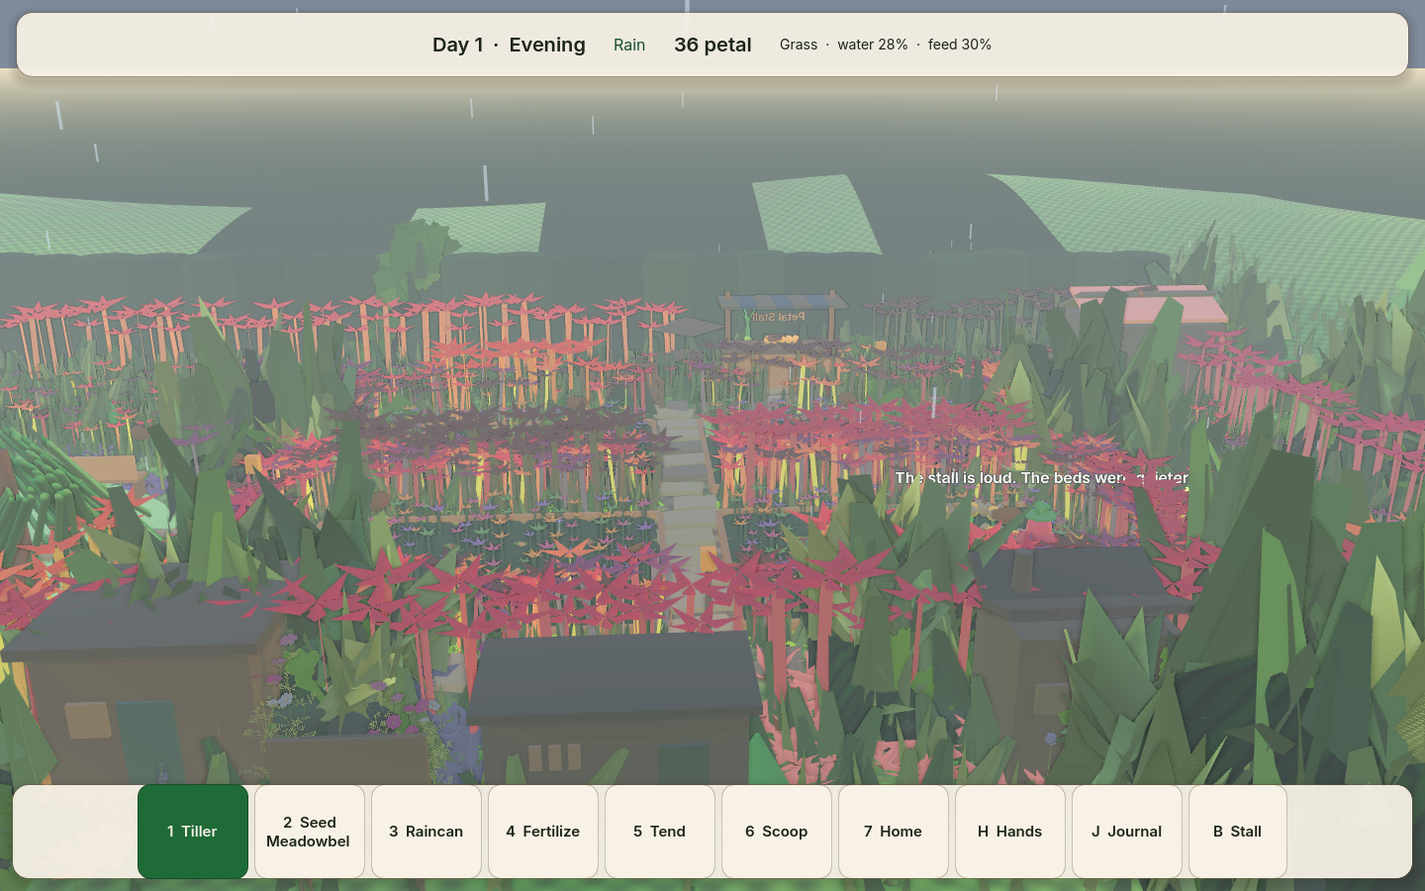
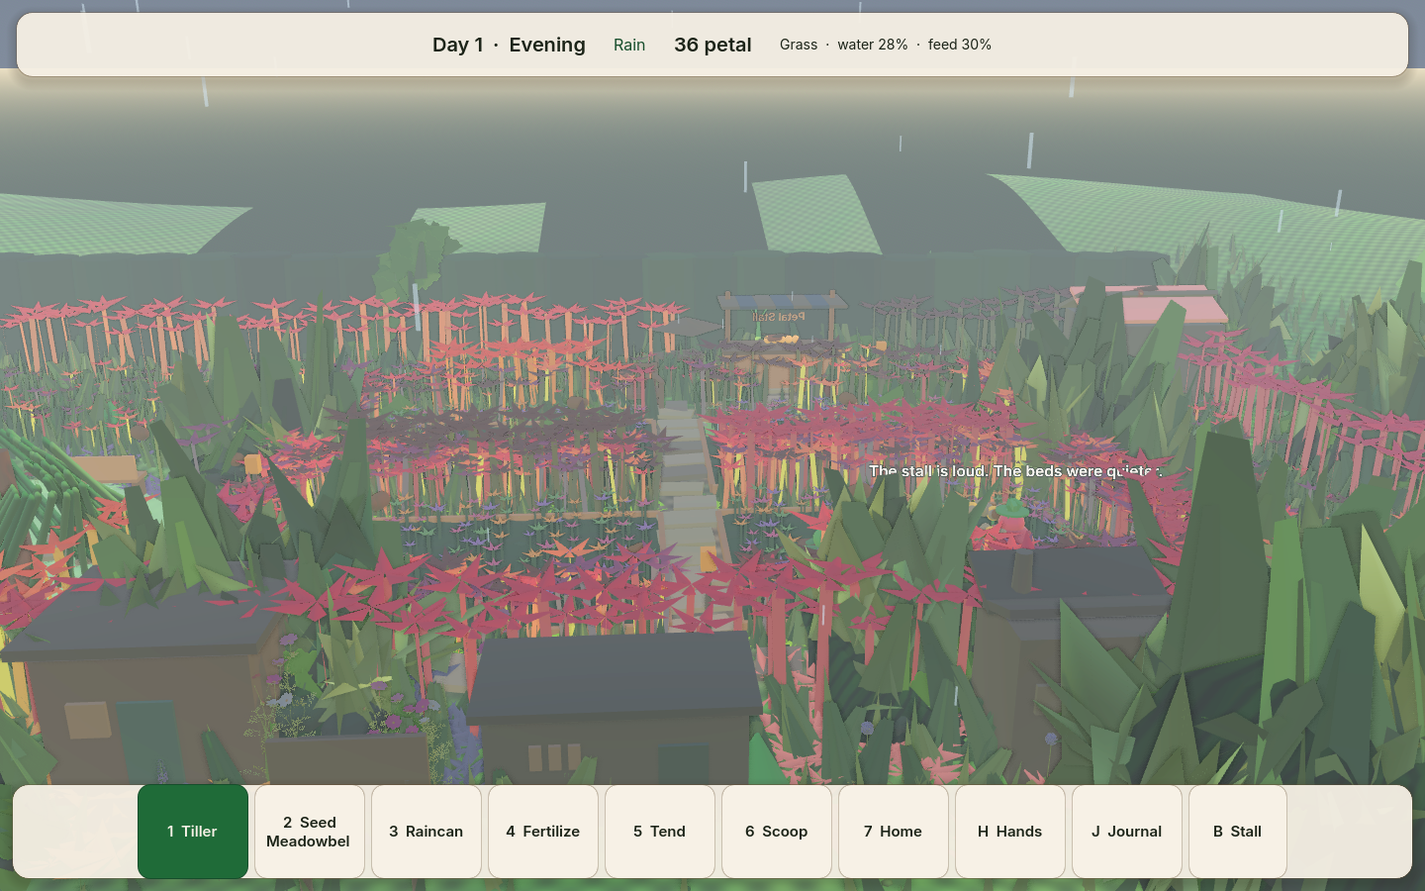
Record the joined lids on the empty beds.
Neighboring empty cells share one dark lid. The upper band is 1.61% light-green and the hill mean stays (212.1, 223.8, 146.5).

diff --git a/docs/PETALWILD_MASTER_STATE.md b/docs/PETALWILD_MASTER_STATE.md
@@ -31,14 +31,14 @@ This machine has no Vulkan surface. Godot falls back to OpenGL 3 / llvmpipe. Aud
 - Large text resizes the garden HUD without leaving the scene.
 - Sim LOD counters. Trust levels named 0–5. Only 0 and 1 can happen, and both stay in the game.
 - Off-screen jellies hide. A resident walks to the nearest placed home kit. A visitor keeps the flower. Back in frame, the body shows again.
-- By day Lumen keeps the stall, Bram walks the plots, and Nessa watches the gate. After dusk they walk home. The directory says which. Ask Bram and he walks the driest tilled bed and waters it. The potting shed is open. Its demand is 1 while he is here. The hedge tea house stands on the south lawn. Its demand is 1 while Nessa is here, and her day round stops at the porch. The research hut stands on the south lawn, west of the tea house. She walks there to file parish notes, nothing leaves the garden, and its demand is 1 once those notes are filed. The media foundry stands between them. After the notes, she can leave a three-episode draft there. Keeping it spends nothing and sends nothing, and foundry demand is 1 once the draft is in the book. The town hall is a board by the south gate. It posts the peach tray and that draft, and its demand is how many are posted. The town beyond the hedge is not simulated. When a creature arrives and Nessa is here, she walks to them and writes the name in the parish book. The journal hides a species name until that creature is sighted. A species that has already visited comes back as a repeat, and the journal says they are back again. Scooping the bank widens the pond, and the new shore sits on the ground. Bulrush wades in once that water and three mature reeds are there. Once Bulrush is a visitor and the beds are wet, Reedic follows. Fertility is the tilled beds, so feeding them counts. Two mature brambles bring Berrypatch, and a third plus those fed beds bring Grapling. A resident Bellhelp brings Cirlark. Dusknip follows a visiting Bellhelp and, once it settles, leaves night-loam, which unwraps the nightlantern seed. A ripe peach and a nightlantern in the evening rain bring Pegapear. Night-loam, two mosspears, and those fed beds bring Gushorn. A planted meadowbell is three bells on a leaf pad, and every crop sits in a ring of eight leaves. An empty untilled bed carries nine dark leaf discs and eight short flowers. Tilling or planting that bed clears them.
+- By day Lumen keeps the stall, Bram walks the plots, and Nessa watches the gate. After dusk they walk home. The directory says which. Ask Bram and he walks the driest tilled bed and waters it. The potting shed is open. Its demand is 1 while he is here. The hedge tea house stands on the south lawn. Its demand is 1 while Nessa is here, and her day round stops at the porch. The research hut stands on the south lawn, west of the tea house. She walks there to file parish notes, nothing leaves the garden, and its demand is 1 once those notes are filed. The media foundry stands between them. After the notes, she can leave a three-episode draft there. Keeping it spends nothing and sends nothing, and foundry demand is 1 once the draft is in the book. The town hall is a board by the south gate. It posts the peach tray and that draft, and its demand is how many are posted. The town beyond the hedge is not simulated. When a creature arrives and Nessa is here, she walks to them and writes the name in the parish book. The journal hides a species name until that creature is sighted. A species that has already visited comes back as a repeat, and the journal says they are back again. Scooping the bank widens the pond, and the new shore sits on the ground. Bulrush wades in once that water and three mature reeds are there. Once Bulrush is a visitor and the beds are wet, Reedic follows. Fertility is the tilled beds, so feeding them counts. Two mature brambles bring Berrypatch, and a third plus those fed beds bring Grapling. A resident Bellhelp brings Cirlark. Dusknip follows a visiting Bellhelp and, once it settles, leaves night-loam, which unwraps the nightlantern seed. A ripe peach and a nightlantern in the evening rain bring Pegapear. Night-loam, two mosspears, and those fed beds bring Gushorn. A planted meadowbell is three bells on a leaf pad, and every crop sits in a ring of eight leaves. An empty untilled bed carries nine dark leaf discs and eight short flowers, and neighboring empty cells share one lid. Tilling or planting that bed clears them and opens the seam again.
 
 ## Broken or not built
 
 - The garden does not yet look like the concept plates. See the gap list below.
 - Bellhelp’s five sphere lobes are gone. Five narrow petals run from the tips down to a small pad, with a dark five-petal well, a gold seed, a wider flared whorl, a lower rim, five gap tips past the lobes, a darker band, and a wide short rank inside the tips. The wide skirt of spheres is gone.
 - Lumen’s stalk is one fluted taper, cream at the base and green at the crown. The raised hand holds a seed tray. Each hand is a palm with three fingers and a thumb.
-- Crest leaf cards are 0.4 scale, and the far hedge keeps one 2.5 m tuft in four. A dark shrub row stands just behind that wall, taller at the east end. Light-green in the upper opening band fell from 53% to 24%, and in the lower band from 36% to 13%. The hill did not move. The stall still shows through the middle. The bright blue in that opening was the awning cloth. That stripe is darker now, about (171, 171, 173), and the sky-blue detector on the overview is 0. The shrub row behind the wall was the pale green in the upper band. That check now covers 1.2%, down from 3.5%. The crest leaf cards and the far trees were the side-opening pale pixels. The north backdrop trees are shorter. Paths are dark dirt with darker flagstones. Blooms are rose. StandardMaterial specular is off. The bench and planter are darkened, bright plant-atlas texels are capped, and the lantern glass is amber. The pink disk by the south-west rail, the untilled grass-plot tops, the meadowbell petals, the mauve bed, the resident hands, the light flagstones, the path dirt, and the loose stones are darkened. Overview pixels at pure white are 0. Empty untilled beds carry nine dark leaf discs and eight short flowers, and the plots still meet as separate rectangles. On this shot the upper-band check is 1.60% (1197 pixels) and the hill mean is (212.1, 223.8, 146.5). Eight bees drift over the beds. Four birds cross the garden by day and perch at dusk and in the rain.
+- Crest leaf cards are 0.4 scale, and the far hedge keeps one 2.5 m tuft in four. A dark shrub row stands just behind that wall, taller at the east end. Light-green in the upper opening band fell from 53% to 24%, and in the lower band from 36% to 13%. The hill did not move. The stall still shows through the middle. The bright blue in that opening was the awning cloth. That stripe is darker now, about (171, 171, 173), and the sky-blue detector on the overview is 0. The shrub row behind the wall was the pale green in the upper band. That check now covers 1.2%, down from 3.5%. The crest leaf cards and the far trees were the side-opening pale pixels. The north backdrop trees are shorter. Paths are dark dirt with darker flagstones. Blooms are rose. StandardMaterial specular is off. The bench and planter are darkened, bright plant-atlas texels are capped, and the lantern glass is amber. The pink disk by the south-west rail, the untilled grass-plot tops, the meadowbell petals, the mauve bed, the resident hands, the light flagstones, the path dirt, and the loose stones are darkened. Overview pixels at pure white are 0. Neighboring empty cells share an overlapping dark lid. The four plots still stand apart along the paths. On this shot the upper-band check is 1.61% (1208 pixels) and the hill mean is (212.1, 223.8, 146.5). Eight bees drift over the beds. Four birds cross the garden by day and perch at dusk and in the rain.
 - City, venues, and the agent civilisation are a single parish record (`data/district.json`, Hedge Hollow, phase A).
 - On-screen jellies stay at district fidelity or nearer. The directory shows each resident's home and job. The parish page lists venues. Petal Stall, the potting shed, the hedge tea house, the research hut, the media foundry, and the town hall board are open. Grove Park is not built, and demand for it is not simulated. Petal Stall demand is the people present plus creature residents.
 - Trust cannot research, draft, or act outside the process.
@@ -64,14 +64,14 @@ Spent: 0. Remaining on the connected account: **367.46** (pro). Catalog check re
 
 Compared `docs/screenshots/wave1_overview.png`, `wave1_jelly.png`, and `wave1_lumen.png` with `docs/reference/petalwild_target_garden_01.png` and `petalwild_target_garden_02.png`.
 
-The north backdrop trees are shorter than the hedge. Crest leaf cards are 0.4 scale, and the far hedge keeps one 2.5 m tuft in four. A dark shrub row stands just behind that wall, taller at the east end. Light-green pixels fell from 53% to 24% in the upper opening band (screen y 265–320) and from 36% to 13% in the lower band (y 290–360). East-lip luminance (y 252–272) fell from 200 to 162. The hill (y 200–245) did not change. Bellhelp’s close-up is on open lawn: five narrow lobes, a dark five-petal well, a gold seed, a wider flared whorl, a lower rim, five gap tips past the lobes, a darker band, and a wide short rank inside the tips. The bench and planter use a dark multiply, bright plant-atlas texels are capped, and the lantern glass is amber. The pink disk by the south-west rail, the untilled grass-plot tops, the meadowbell petals, the mauve bed, the resident hands, the light flagstones, the path dirt, and the loose stones are darkened. Pure white on this overview is 0. The stall awning’s bright blue was cloth, now about (171, 171, 173), and the sky-blue detector is 0. The shrub row behind the wall no longer reads as pale green; that upper-band check is 1.2%. On the previous shot that check was 1.17% and the hill mean was (212.9, 224.4, 147.6). With the hedge tea house in the lower left, that shot was 1.30%. With the research hut in the lower middle, that shot was 1.17% (874 pixels). With the media foundry in the lower middle, that shot was 1.15% (862 pixels). With the town hall board in the south gate, that shot was 1.29% (968 pixels) and the hill mean was (212.0, 223.6, 146.4). On that shot the check was 1.54% (1155 pixels) and the hill mean was (212.0, 223.7, 146.5). Empty untilled beds now carry nine dark leaf discs and eight short flowers, and a tilled or planted bed clears them. On this shot the check is 1.60% (1197 pixels) and the hill mean is (212.1, 223.8, 146.5). The added light-green is the west edge of the hill under the swaying leaves. A planted meadowbell is three bells on a leaf pad, and every crop sits in a ring of eight leaves. Eight bees drift over the beds. Four birds cross the garden by day and perch at dusk and in the rain. Paths are flagstones on dark dirt. Lumen’s stalk is one fluted taper, and the raised hand holds the seed tray. `PETAL_SMOKE_OK`, `PETAL_RULES_OK`, and `PETAL_CAPTURE_OK` passed on this tree. Shots are the six `wave1_*.png` files.
+The north backdrop trees are shorter than the hedge. Crest leaf cards are 0.4 scale, and the far hedge keeps one 2.5 m tuft in four. A dark shrub row stands just behind that wall, taller at the east end. Light-green pixels fell from 53% to 24% in the upper opening band (screen y 265–320) and from 36% to 13% in the lower band (y 290–360). East-lip luminance (y 252–272) fell from 200 to 162. The hill (y 200–245) did not change. Bellhelp’s close-up is on open lawn: five narrow lobes, a dark five-petal well, a gold seed, a wider flared whorl, a lower rim, five gap tips past the lobes, a darker band, and a wide short rank inside the tips. The bench and planter use a dark multiply, bright plant-atlas texels are capped, and the lantern glass is amber. The pink disk by the south-west rail, the untilled grass-plot tops, the meadowbell petals, the mauve bed, the resident hands, the light flagstones, the path dirt, and the loose stones are darkened. Pure white on this overview is 0. The stall awning’s bright blue was cloth, now about (171, 171, 173), and the sky-blue detector is 0. The shrub row behind the wall no longer reads as pale green; that upper-band check is 1.2%. On the previous shot that check was 1.17% and the hill mean was (212.9, 224.4, 147.6). With the hedge tea house in the lower left, that shot was 1.30%. With the research hut in the lower middle, that shot was 1.17% (874 pixels). With the media foundry in the lower middle, that shot was 1.15% (862 pixels). With the town hall board in the south gate, that shot was 1.29% (968 pixels) and the hill mean was (212.0, 223.6, 146.4). On that shot the check was 1.54% (1155 pixels) and the hill mean was (212.0, 223.7, 146.5). Empty untilled beds now carry nine dark leaf discs and eight short flowers, and a tilled or planted bed clears them. On the leaf-cover shot the check was 1.60% (1197 pixels) and the hill mean was (212.1, 223.8, 146.5). Neighboring empty cells now share an overlapping dark lid, so the brown seam inside a plot closes. On this shot the check is 1.61% (1208 pixels) and the hill mean is (212.1, 223.8, 146.5). The extra light-green is the west edge of the hill under the swaying leaves. A planted meadowbell is three bells on a leaf pad, and every crop sits in a ring of eight leaves. Eight bees drift over the beds. Four birds cross the garden by day and perch at dusk and in the rain. Paths are flagstones on dark dirt. Lumen’s stalk is one fluted taper, and the raised hand holds the seed tray. `PETAL_SMOKE_OK`, `PETAL_RULES_OK`, and `PETAL_CAPTURE_OK` passed on this tree. Shots are the six `wave1_*.png` files.
 
 Three largest gaps still open, against `docs/reference/petalwild_target_garden_01.png` and `petalwild_target_garden_02.png`:
 
-1. **Hedge skyline.** The crest cards and the far trees are darker. On this shot 1.60% of the upper band is still light-green (1197 pixels), mostly the west edge of the hill. The hill mean is (212.1, 223.8, 146.5). The stall still shows through the middle. The south rooms, the gate board, and the bed blooms sit lower and do not cover that edge. PETAL-05.
+1. **Hedge skyline.** The crest cards and the far trees are darker. On this shot 1.61% of the upper band is still light-green (1208 pixels), mostly the west edge of the hill. The hill mean is (212.1, 223.8, 146.5). The stall still shows through the middle. The south rooms, the gate board, and the bed blooms sit lower and do not cover that edge. PETAL-05.
 2. **Bellhelp.** Ten tips, a short rank inside them, a darker band, and a wider skirt. The dark throat is still the center. PETAL-03.
-3. **Plot grid.** Leaf discs and short flowers cover each empty untilled cell, and a tilled or planted cell clears them. The plots still meet as separate rectangles. The plates are one continuous planting. Overview pixels at pure white are 0, and the brightest leftover is still the warm horizon at screen x 1034, y 178, (255, 255, 201). That is sky. PETAL-06.
+3. **Plot grid.** Neighboring empty cells share an overlapping dark lid, so the brown seam inside a plot closes. The four plots still stand apart along the paths, and a planted cell stays an inset. The plates are one continuous planting. Overview pixels at pure white are 0, and the brightest leftover is still the warm horizon at screen x 1034, y 178, (255, 255, 201). That is sky. PETAL-06.
 
 ## Next integration
 
-Keep this build playable. The next pass stays inside `scenes/main.tscn` (Hedge Hollow). The creature chain through Gushorn can happen in this garden. Grove Park is still not built. The hedge tea house stands on the south lawn. The research hut stands west of it, and the media foundry stands between them. The town hall is a board by the south gate. Meadowbells are a clump of three, and every crop sits in a ring of leaves. Empty untilled beds carry nine dark leaf discs and eight short flowers, and the plots still meet as separate rectangles. On this shot 1.60% of the upper band is still light green (1197 pixels), mostly the west edge of the hill, and the stall still shows through the middle. The hill mean is (212.1, 223.8, 146.5). The south rooms and the town hall board sit in the foreground. Bees sit on the flowers while it rains. Do not paint that hill edge, do not cut the hill, and do not raise the east shrubs. Do not fill Bellhelp’s dark throat. Do not open a side demo. The Kenney/Cara grove in `scripts/presentation/` is not the running scene.
+Keep this build playable. The next pass stays inside `scenes/main.tscn` (Hedge Hollow). The creature chain through Gushorn can happen in this garden. Grove Park is still not built. The hedge tea house stands on the south lawn. The research hut stands west of it, and the media foundry stands between them. The town hall is a board by the south gate. Meadowbells are a clump of three, and every crop sits in a ring of leaves. Neighboring empty cells share an overlapping dark lid, and the four plots still stand apart along the paths. On this shot 1.61% of the upper band is still light green (1208 pixels), mostly the west edge of the hill, and the stall still shows through the middle. The hill mean is (212.1, 223.8, 146.5). The south rooms and the town hall board sit in the foreground. Bees sit on the flowers while it rains. Do not paint that hill edge, do not cut the hill, and do not raise the east shrubs. Do not fill Bellhelp’s dark throat. Do not open a side demo. The Kenney/Cara grove in `scripts/presentation/` is not the running scene.

diff --git a/docs/VISUAL_GAP.md b/docs/VISUAL_GAP.md
@@ -2,12 +2,12 @@
 
 Compared on 2026-09-22. The scene `tools/run.sh` launches is Hedge Hollow. Shots: `docs/screenshots/wave1_overview.png`, `wave1_jelly.png`, `wave1_lumen.png`. Targets: `docs/reference/petalwild_target_garden_01.png` and `petalwild_target_garden_02.png`.
 
-The north backdrop trees are shorter than the hedge. Crest leaf cards are 0.4 of their old size, and the far wall keeps one 2.5 m tuft in four. A row of dark shrubs stands just behind that wall. The east end is taller so its lip meets the hedge line. Light-green pixels in the upper opening band (screen y 265–320, x 40–1400) fell from 53% to 24%, and in the lower band (y 290–360, x 80–1200) from 36% to 13%. On the east lip (y 252–272, x 40–300) mean luminance fell from 200 to 162. The hill (y 200–245) did not change. The stall still sits in front of the middle of the wall. The bright blue band in that opening was the awning cloth, not a hole in the hedge. That stripe is darker now and reads about (171, 171, 173). A sky-blue detector on the overview (blue above 200, ahead of red by 20 and of green by 10) is 0. The shrub row behind the wall was lifting to pale green under the sun. The same light-green check (green ahead of red by 15 and of blue by 20, green above 140) now covers 1.2% of the upper band, down from 3.5% on the previous shot. The crest leaf cards and the far trees were the pale pixels in the side openings. The upper hill (screen y 200–230) stayed at about (213, 224, 148). The ground sky below the horizon is green, so a hole in the hill reads as olive rather than pale sky. Bellhelp’s close-up shows five pointed lobes, five gap tips past them, a wide short rank inside that ring, a darker band, and a wider flared whorl. The dark throat stays. The wide skirt of spheres is gone. The bench and planter use a dark multiply on the prop texture, and bright plant-atlas texels are capped. The three lantern glasses are amber instead of pure white. The pink disk by the south-west rail, the untilled grass-plot tops, the meadowbell petals, the mauve bed, the resident hands, the light flagstones, the path dirt, and the loose stones are darkened so they stay under the sun. Eight bees drift over the beds. Four birds cross the garden by day and perch at dusk and in the rain. A planted meadowbell is three bells on a leaf pad, and every crop sits in a ring of eight leaves. Pure white on this overview is 0. On the previous shot the upper-band light-green check was 1.17% and the hill mean was (212.9, 224.4, 147.6). The hedge tea house stands in the lower left of the home shot. On that shot the same check was 1.30% (969 pixels) and the hill mean was (212.0, 223.6, 146.4). The research hut stands in the lower middle of that shot, where the check was 1.17% (874 pixels) and the hill mean was (212.0, 223.6, 146.4). The media foundry stands in the lower middle of that shot, where the check was 1.15% (862 pixels) and the hill mean was (212.0, 223.6, 146.4). The town hall board now stands in the south gate. On the town-hall shot the check was 1.29% (968 pixels) and the hill mean was (212.0, 223.6, 146.4). On the six-bloom shot the check was 1.54% (1155 pixels) and the hill mean was (212.0, 223.7, 146.5). Empty untilled beds now carry nine dark leaf discs and eight short flowers, and a tilled or planted bed clears them. On this shot the check is 1.60% (1197 pixels) and the hill mean is (212.1, 223.8, 146.5). The added light-green sits on the west edge of the hill under the swaying leaves.
+The north backdrop trees are shorter than the hedge. Crest leaf cards are 0.4 of their old size, and the far wall keeps one 2.5 m tuft in four. A row of dark shrubs stands just behind that wall. The east end is taller so its lip meets the hedge line. Light-green pixels in the upper opening band (screen y 265–320, x 40–1400) fell from 53% to 24%, and in the lower band (y 290–360, x 80–1200) from 36% to 13%. On the east lip (y 252–272, x 40–300) mean luminance fell from 200 to 162. The hill (y 200–245) did not change. The stall still sits in front of the middle of the wall. The bright blue band in that opening was the awning cloth, not a hole in the hedge. That stripe is darker now and reads about (171, 171, 173). A sky-blue detector on the overview (blue above 200, ahead of red by 20 and of green by 10) is 0. The shrub row behind the wall was lifting to pale green under the sun. The same light-green check (green ahead of red by 15 and of blue by 20, green above 140) now covers 1.2% of the upper band, down from 3.5% on the previous shot. The crest leaf cards and the far trees were the pale pixels in the side openings. The upper hill (screen y 200–230) stayed at about (213, 224, 148). The ground sky below the horizon is green, so a hole in the hill reads as olive rather than pale sky. Bellhelp’s close-up shows five pointed lobes, five gap tips past them, a wide short rank inside that ring, a darker band, and a wider flared whorl. The dark throat stays. The wide skirt of spheres is gone. The bench and planter use a dark multiply on the prop texture, and bright plant-atlas texels are capped. The three lantern glasses are amber instead of pure white. The pink disk by the south-west rail, the untilled grass-plot tops, the meadowbell petals, the mauve bed, the resident hands, the light flagstones, the path dirt, and the loose stones are darkened so they stay under the sun. Eight bees drift over the beds. Four birds cross the garden by day and perch at dusk and in the rain. A planted meadowbell is three bells on a leaf pad, and every crop sits in a ring of eight leaves. Pure white on this overview is 0. On the previous shot the upper-band light-green check was 1.17% and the hill mean was (212.9, 224.4, 147.6). The hedge tea house stands in the lower left of the home shot. On that shot the same check was 1.30% (969 pixels) and the hill mean was (212.0, 223.6, 146.4). The research hut stands in the lower middle of that shot, where the check was 1.17% (874 pixels) and the hill mean was (212.0, 223.6, 146.4). The media foundry stands in the lower middle of that shot, where the check was 1.15% (862 pixels) and the hill mean was (212.0, 223.6, 146.4). The town hall board now stands in the south gate. On the town-hall shot the check was 1.29% (968 pixels) and the hill mean was (212.0, 223.6, 146.4). On the six-bloom shot the check was 1.54% (1155 pixels) and the hill mean was (212.0, 223.7, 146.5). Empty untilled beds now carry nine dark leaf discs and eight short flowers, and a tilled or planted bed clears them. On the leaf-cover shot the check was 1.60% (1197 pixels) and the hill mean was (212.1, 223.8, 146.5). Neighboring empty cells now share an overlapping dark lid, so the brown seam inside a plot closes. On this shot the check is 1.61% (1208 pixels) and the hill mean is (212.1, 223.8, 146.5). The extra light-green sits on the west edge of the hill under the swaying leaves.
 
 ## Three largest gaps
 
-1. **Hedge skyline.** The crest cards and the far trees are darker. On this shot 1.60% of the upper band is still light-green (1197 pixels), mostly the west edge of the hill. The hill mean is (212.1, 223.8, 146.5). The stall still shows through the middle. The south rooms, the gate board, and the bed blooms sit lower and do not cover that edge. PETAL-05.
+1. **Hedge skyline.** The crest cards and the far trees are darker. On this shot 1.61% of the upper band is still light-green (1208 pixels), mostly the west edge of the hill. The hill mean is (212.1, 223.8, 146.5). The stall still shows through the middle. The south rooms, the gate board, and the bed blooms sit lower and do not cover that edge. PETAL-05.
 
 2. **Bellhelp.** Ten tips, a short rank inside them, a darker band, and a wider skirt. The dark throat is still the center. PETAL-03.
 
-3. **Plot grid.** Leaf discs and short flowers cover each empty untilled cell, and a tilled or planted cell clears them. The plots still meet as separate rectangles. The plates are one continuous planting. Overview pixels at pure white are 0, and the brightest leftover is still the warm horizon at screen x 1034, y 178, (255, 255, 201). That is sky. PETAL-06.
+3. **Plot grid.** Neighboring empty cells share an overlapping dark lid, so the brown seam inside a plot closes. The four plots still stand apart along the paths, and a planted cell stays an inset. The plates are one continuous planting. Overview pixels at pure white are 0, and the brightest leftover is still the warm horizon at screen x 1034, y 178, (255, 255, 201). That is sky. PETAL-06.
